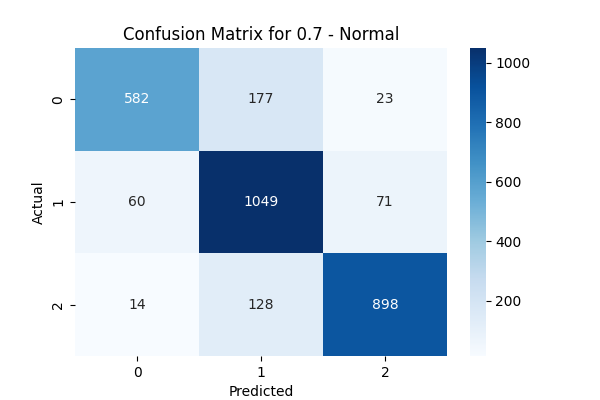
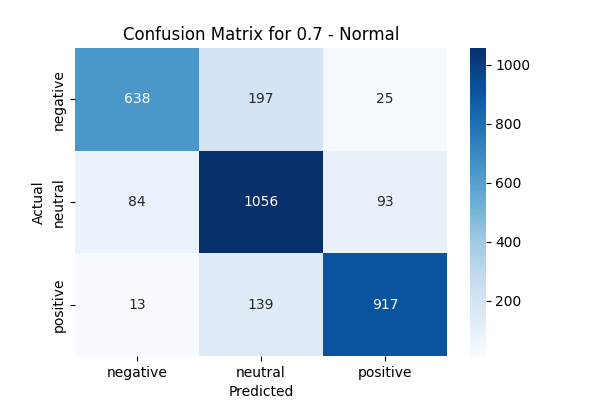
fix data cleaning error in Yelp

diff --git a/data_processing/cleaning.py b/data_processing/cleaning.py
@@ -27,20 +27,24 @@ class BaseDataCleaner:
         return df
 
     def clean_text(self, text: str) -> str:
-        if not isinstance(text, str):
-            return ""
-        text = re.sub(r"https?://.+", "", text)
-        doc = self.nlp(text)
-        clean_tokens = [
-            token.lemma_.lower()
-            for token in doc
-            if token.text not in string.punctuation
-            and not token.is_stop
-            and token.lemma_ != "-PRON-"
-        ]
-        if len(clean_tokens) > 0:
-            return " ".join(clean_tokens)
-        return text
+        try:
+            if not isinstance(text, str):
+                return ""
+            text = re.sub(r"https?://.+", "", text)
+            doc = self.nlp(text)
+            clean_tokens = [
+                token.lemma_.lower()
+                for token in doc
+                if token.text not in string.punctuation
+                and not token.is_stop
+                and token.lemma_ != "-PRON-"
+            ]
+            if len(clean_tokens) > 0:
+                return " ".join(clean_tokens)
+            return text
+        except Exception as e:
+            logger.error(f"Error cleaning text: {e}")
+            return text
 
 
 class MovieDataCleaner(BaseDataCleaner):
@@ -78,6 +82,7 @@ class YelpDataCleaner(BaseDataCleaner):
     def clean(self, df: pd.DataFrame) -> pd.DataFrame:
         df = super().clean(df)
         print(CLEANING_TEXT_MESSAGE)
+        df["sentiment"] = df["sentiment"].map({2: "positive", 1: "negative"})
         df["preprocess_text"] = df["review"].progress_apply(self.clean_text)
         df = df[df["preprocess_text"].str.split().str.len() > 0]
         return df
